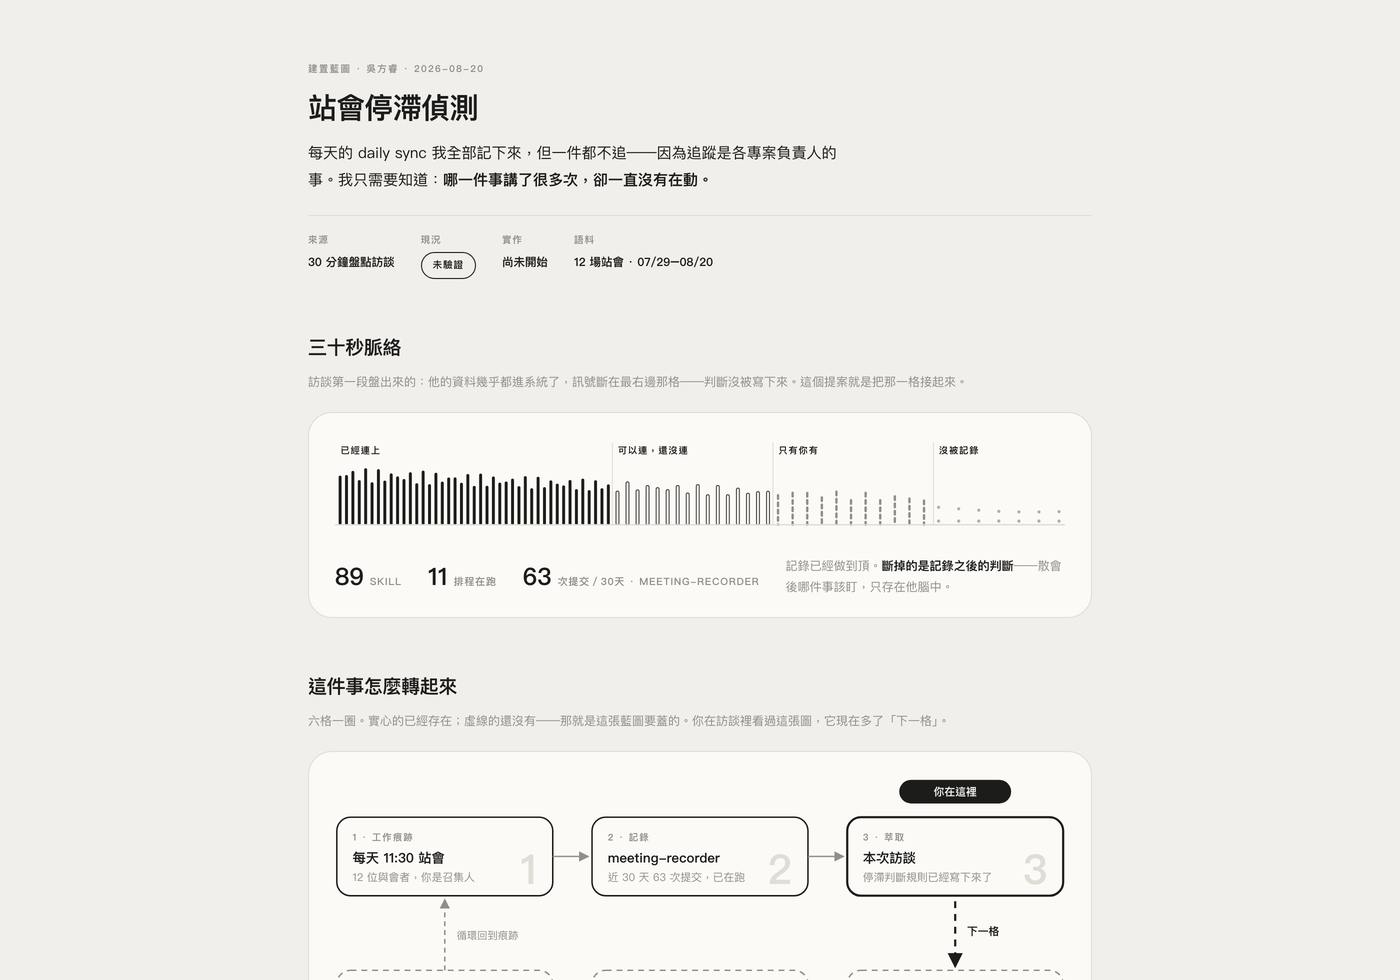
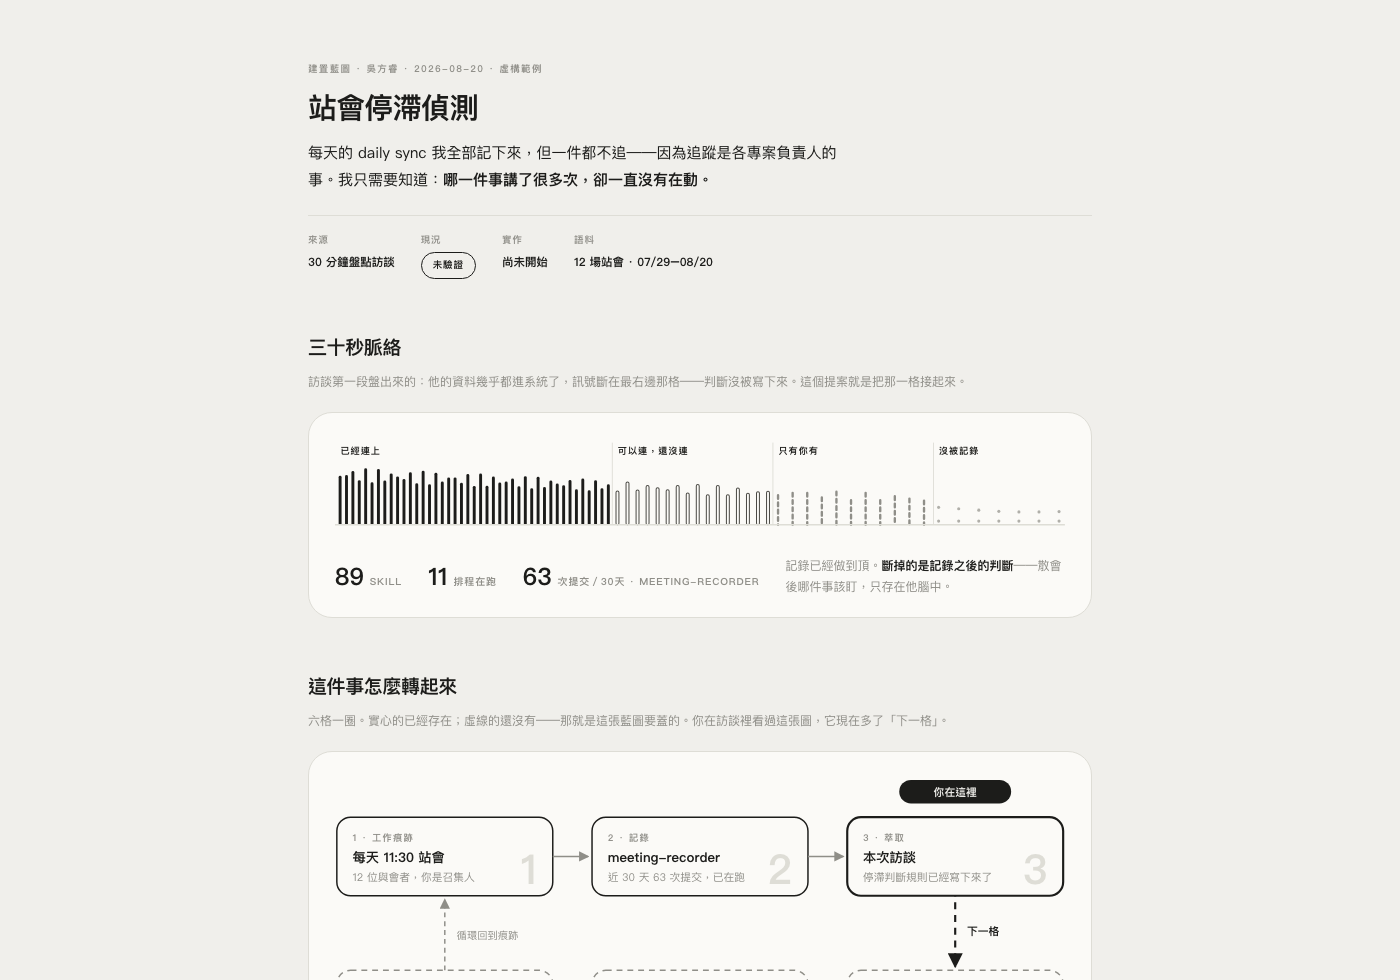
依法律意見調整授權、風險告知與品牌標示
- NOTICE.md 改為「CC BY-NC 4.0 + 方睿額外授權」雙軌：企業內部導入與
  免費公開分享明列為免費，不再依賴 NC 條款的解釋空間
- 商業利用改為「應事前簽署書面商業授權契約」
- 新增品牌與改作版本規則：著作權授權不含商標授權，實質修改後對外
  發布者須移除官方頁尾並改用指定標示
- 免責改為「不設方睿資料接收或儲存機制」的精確敘述，並補上使用前的
  權限與資安確認事項
- 兩個 skill 開場加入資料使用風險告知（interview-me 每場、daily-brief
  僅第一次設定）
- 出處標註改為「概念受啟發、文字與架構均另行撰寫」
- 範例頁補「虛構範例」標記，移除誤植的「實跑紀錄、未經去識別化」字樣

diff --git a/interview-me/examples/blueprint.html b/interview-me/examples/blueprint.html
@@ -163,7 +163,7 @@
 <div class="wrap">
 
   <header>
-    <span class="eyebrow">建置藍圖 · 吳方睿 · 2026-08-20</span>
+    <span class="eyebrow">建置藍圖 · 吳方睿 · 2026-08-20 · 虛構範例</span>
     <h1>站會停滯偵測</h1>
     <p class="lede">每天的 daily sync 我全部記下來，但一件都不追——因為追蹤是各專案負責人的事。我只需要知道：<strong>哪一件事講了很多次，卻一直沒有在動。</strong></p>
     <div class="meta">
@@ -507,9 +507,9 @@
   </section>
 
   <footer>
-    這份藍圖是 <strong>interview-me skill 收尾成品的範例</strong>，內容來自 2026-08-20 吳方睿 的盤點訪談實跑紀錄，未經去識別化，內部使用。<br>
+    這份藍圖是 <strong>interview-me skill 收尾成品的範例</strong>，人物「吳方睿」、公司、專案與所有數字都是<strong>杜撰的</strong>，用來示範這份成品長什麼樣。<br>
     規則的每一條都由受訪者本人選定或修正；訪談者只做了資料比對與整理。
-    <div class="src">來源 · 12 場生態系事業群 daily sync（07/29–08/20）· 訪談問答 11 輪 · 受訪者當場修正 4 次</div>
+    <div class="src">虛構範例 · 由 interview-me skill 產出 · 方睿科技 FUNRAISE · CC BY-NC 4.0</div>
   </footer>
 
 </div>

diff --git a/NOTICE.md b/NOTICE.md
@@ -1,10 +1,11 @@
 # 授權說明與商業使用
 
-本專案採 **CC BY-NC 4.0**（姓名標示 — 非商業性 4.0 國際）。
+本專案採 **CC BY-NC 4.0**（姓名標示 — 非商業性 4.0 國際），**並由方睿科技另外給予一層額外授權**（見下方第五節），把「企業內部導入」與「免費公開分享」明確劃進免費範圍。
+
 著作權人：**方睿科技股份有限公司（FUNRAISE Inc.）**
 完整條文見 [`LICENSE`](LICENSE)。
 
-這一頁是白話版，方便你判斷自己屬於哪一種。**條文與本頁牴觸時，以 `LICENSE` 為準。**
+這一頁前四節是白話版，方便你判斷自己屬於哪一種；第五節是正式條款。**白話與條款牴觸時，以第五節與 `LICENSE` 為準。**
 
 ---
 
@@ -12,10 +13,10 @@
 
 - 你自己用、給你同事用
 - 改成你們團隊或公司的版本（尤其是 `organization-context.md`，本來就是給你改的）
-- 內部訓練、內部導入、內部分享
+- 內部訓練、內部導入、內部分享、拿它改善你們自己的工作流程
 - 讀它、學它的做法、把方法用在你自己的東西上
 
-**「非商業」指的是使用行為本身不以營利為主要目的，不是指「你的公司有沒有在賺錢」。** 一般企業拿去改善自己的內部工作流程，屬於這一類。
+**你們公司是營利企業也一樣。** 只要不是拿它去對外收費，內部怎麼用都免費——這一點寫在第五節的額外授權條款裡，不是我們口頭承諾。
 
 ---
 
@@ -27,13 +28,13 @@
 > https://github.com/Nelsen-funraise/context-interview
 > 授權：CC BY-NC 4.0
 
-改過的版本請說明你改了什麼，不要讓人誤以為那是原版。
+**改過的版本要說明你改了什麼**，不要讓人誤以為那是原版。如果你做了實質修改又對外發布，請看第四節的品牌規則。
 
 ---
 
 ## 三、要先談：商業使用
 
-以下情況超出 CC BY-NC 的範圍，需要另外取得授權：
+以下情況超出免費授權的範圍，需要另外取得授權：
 
 - **收費課程或工作坊**把它當教材或學員交付物
 - **顧問服務**把它當交付物的一部分向客戶收費
@@ -55,11 +56,63 @@
 
 ---
 
-## 四、免責
+## 四、品牌與改作版本
+
+「方睿科技」「FUNRAISE」是方睿科技的品牌，**著作權授權不包含商標授權**——拿到這份資源的使用權，不等於可以把 FUNRAISE 當成自己產品或服務的品牌使用。
+
+- **原版**：保留頁尾的方睿科技 FUNRAISE 標示。
+- **你改過、而且要對外發布的版本**：請把方睿的 logo 與具有官方版本外觀的頁尾移除，改成下面這一行——
+
+  > Based on context-interview by 方睿科技 FUNRAISE；本版本已經修改，非方睿科技官方版本，亦未經方睿科技審查或背書。
+
+這樣既符合姓名標示的要求，也不會讓讀到的人誤以為你改過的內容經過我們審查或背書。
+
+---
+
+## 五、授權條款（正式版）
+
+### 5.1 基礎授權
+
+本專案依 **Creative Commons 姓名標示—非商業性 4.0 國際（CC BY-NC 4.0）** 授權，完整條文見 [`LICENSE`](LICENSE)。
+
+### 5.2 方睿科技額外授權
+
+除前述 CC BY-NC 4.0 授權外，方睿科技股份有限公司另行授權任何個人、公司或其他組織：
+
+1. 得免費將本專案用於其自身或組織內部之教育、訓練、工作流程改善及內部導入，**即使該組織本身具有營利性亦同**；
+2. 得免費公開分享、轉貼、引用或介紹本專案，並得於免費之分享場合、文章、社群貼文或簡報中使用，惟應依第二節之方式標示出處。
+
+前二項授權，均**不得**將本專案或其實質內容作為收費課程、顧問交付物、付費商品、付費服務或其他對外收費內容之一部。
+
+### 5.3 商業利用
+
+前述商業利用不在本專案之免費授權範圍內，**應事前另與方睿科技簽署書面商業授權契約**。聯繫窗口見第三節。
+
+### 5.4 商標
+
+本授權不包含方睿科技之商標、標章或品牌名稱之授權。經實質修改後對外發布之版本，應依第四節移除官方版本外觀並改用指定之標示文字。
+
+---
+
+## 六、免責與風險告知
 
 本專案按「現狀」提供，不附任何明示或默示的擔保。
 
-這兩個 skill 會讀取你授權給 AI 的資料來源。**你自己要確認**：你有權讓 AI 讀那些資料、你們公司的資安與個資規範允許這件事。方睿科技不對你如何使用它、以及使用後的結果負責。
+### 6.1 資料流向
+
+**本專案本身不設置方睿科技之資料接收或儲存機制，亦不會將使用者資料傳送至方睿科技伺服器。** 惟實際資料如何由 AI 服務商蒐集、處理、儲存或傳輸，仍取決於使用者所選擇之 AI 服務、帳戶方案及其相關設定與服務條款。
+
+換句話說：資料不會來我們這裡，但它會進到**你自己選的那個 AI**。那一段由你和你的 AI 服務商之間的條款決定，我們沒有辦法、也沒有立場替你保證。
+
+### 6.2 使用前請先確認
+
+如將使用公司內部資料、員工或客戶個資、未公開財務資料、營業秘密或其他機密資訊：
+
+- 請先確認**您具有合法使用權限**；
+- 請先確認**所使用之 AI 服務符合貴公司個資、資訊安全及機密資訊政策**；
+- 必要時應**先進行去識別化或移除敏感內容**。
+
+這兩個 skill 會讀取你授權給 AI 的資料來源，讀得到什麼完全取決於你給了什麼權限。方睿科技不對你如何使用它、以及使用後的結果負責。
 
 `interview-me` 刻意不記錄薪資、考核與對特定同事的評價（規則寫在 `SKILL.md`），但那是流程上的約束，不是技術上的保證。
 

diff --git a/interview-me/SKILL.md b/interview-me/SKILL.md
@@ -15,7 +15,15 @@ description: 盤點「我的脈絡」的訪談——由 AI 主持、分兩段：
 4. **岔題停車場。** 他岔題→一句話回應＋記進停車場＋下一句就回到當站的題目。停車場在第 5 站清空，每條走三選一：**答得了的當場一句話回答**、該技能化的進工作清單、其餘進「其他回饋」交給計畫負責人——一條都不丟，也不假裝每條都是待辦。
 5. **語言鎖定：繁體中文（台灣用語）。** 問題、選項、圖、藍圖、簡報，全部。每次產出前自掃一遍有沒有簡體字或整段英文——實測兩場都出現過語言漂移，受訪者的個人設定擋不住，這條要由你守。**引用受訪者或客戶的簡體原文時，轉成繁體引用並標「（原文簡體）」**——轉字不改詞，語意不失真；訊息本文與成品裡不出現簡體字，無例外。
 6. **資料紀律。** (a) 連結只用工具回傳的原樣 URL 且要**直達那一筆**（頁面連結，不是整個資料庫檢視）；只有資料庫連結就註明「開啟後找『XX』」——實測受訪者為了在資料庫裡找一筆任務花了四分鐘。(b) 查詢待辦或逾期任務，**條件必須含「負責人＝他」**——實測只用狀態＋日期過濾，把同事負責的任務放進了受訪者的簡報，受訪者第一反應是「這不是我的」。(c) 行事曆讀不到就說讀不到，不要推論「你今天沒事」。(d) 把某句回饋或評價掛到具體人名之前，先確認來源（「我記到的是 A 說的——對嗎？」）——實測把 B 的回饋掛成了 A、受訪者當場糾正。
-7. **先開口，再跑工具。** 任何超過 30 秒的掃描或生成，前面必須先有一句話：在做什麼、約多久、這段時間他可以先想什麼。**開場尤其如此**——第一句話要在自查之前就送出（打招呼＋「我先花約三分鐘查你的資料，查得到的就不會問你」＋「過程可能跳出幾次授權框，按允許就好」），實測兩場開場都讓受訪者對著轉圈的工具清單乾等了四分鐘。收尾生成兩個成品前也一樣先說「大約要兩三分鐘」。
+7. **先開口，再跑工具。** 任何超過 30 秒的掃描或生成，前面必須先有一句話：在做什麼、約多久、這段時間他可以先想什麼。**開場尤其如此**——第一句話要在自查之前就送出（打招呼＋「我先花約三分鐘查你的資料，查得到的就不會問你」＋「過程可能跳出幾次授權框，按允許就好」＋**下面這句資料提醒**），實測兩場開場都讓受訪者對著轉圈的工具清單乾等了四分鐘。
+
+    **開場那則訊息必須帶這一句、不可省略、不要壓縮成更輕描淡寫的版本**（法律意見要求的風險告知，位置就在自查宣告之後、第一題之前）：
+
+    > 開始之前提醒一下：如果等下會用到公司內部資料、同事或客戶的個資、還沒公開的財務數字或營業秘密，請先確認你有權限使用、而且你在用的這個 AI 服務符合你們公司的個資與資安規定；不確定的部分先拿掉或去識別化再給我。
+
+    說完就接著跑自查，不要停下來等他回覆這一句——它是告知，不是問題。**續談模式（第二次以後）不用重講。**
+
+    收尾生成兩個成品前也一樣先說「大約要兩三分鐘」。
 8. **說人話。** 對受訪者說的每一句、圖上每一行字，出口前過三個測試：茶水間測試（這句你會對同事口頭說嗎）、新人測試（昨天報到的人聽得懂嗎）、第一句測試（只聽第一句也不會誤解）。「萃取」「閉環」「驗收」「歸檔」這些詞不准對他說出口——換詞表與寫法規則見 `references/plain-talk.md`。實測兩場被當場嫌「太文言文」「這個問題太難了」；規格用語留給規格，開口要像茶水間。**數字、來源、人名除外——白話是換說法，不是變模糊。**
 9. **守住你承諾的時間。** 他選了壓縮版，那就是合約：進度條帶剩餘分鐘，超時就明說「超時了，我用最短路徑收尾」——砍題數、不砍成品。**你在對話裡沒有錶，用回合數當尺**：30 分版每站最多 5 個受訪者回合、10 分版最多 2 個，到頂即視同超時、觸發最短路徑。實測一場選了 15 分鐘壓縮版，實際又跑了二十多分鐘，沒有任何超時宣告。
 10. **不落地，不停手。** (a) **交付段一氣呵成**：進第④站先說「接下來我會連續交出藍圖和簡報定稿（10 分版約一分半、30 分版約四分鐘），中間不會問你問題；**萬一我中途停住，回我任何一個字（打『繼續』就行），我會直接接著做完、不會重問**」——這句宣告和兩個成品**必須在同一則訊息裡**：宣告完不結束回合、直接開始產，成品與成品之間禁止提問、禁止等確認。實測三場全倒在這裡：藍圖交完用一句確認題收尾（完全合規），回合斷掉，簡報就永遠等不到下一棒。(b) **恢復規則**：只要照五站表**已到交付時機而尚未交付**的成品存在（骨架版在第①站、藍圖與定稿在④⑤），收到受訪者的**任何**訊息（「好」「繼續」「這是什麼」都算），第一動作是把它做完——訊息內容一句話回應或收進停車場，交完之前不進入自由問答。只有他明確喊停（「先到這」「不用了」）才停，停也要把已完成的交付＋缺項清單留給他。

diff --git a/README.md b/README.md
@@ -229,15 +229,19 @@ daily-brief/
 
 ## 授權
 
-**CC BY-NC 4.0**（姓名標示 — 非商業性）。白話講：
+**CC BY-NC 4.0**（姓名標示 — 非商業性）＋**方睿額外授權**。白話講：
 
 | | |
 |---|---|
 | ✅ **自己用、給同事用、改成你們團隊的版本** | 免費，不用問我們 |
+| ✅ **公司內部導入、內部訓練、改善你們自己的工作流程** | 免費——你們公司是營利企業也一樣 |
 | ✅ **分享、轉貼、寫成文章** | 請註明出處：方睿科技 FUNRAISE，並附上這個 repo 的連結 |
-| ⚠ **商業使用**（收費課程、顧問交付物、包進你的產品、對外販售） | 需要另外談授權或分潤 |
+| ⚠ **改過之後又對外發布** | 移除方睿的官方頁尾，改標「Based on context-interview by 方睿科技 FUNRAISE；本版本已經修改」 |
+| ⚠ **商業使用**（收費課程、顧問交付物、包進你的產品、對外販售） | 需事前簽署書面商業授權契約 |
 
-商業授權怎麼申請，見 [`NOTICE.md`](NOTICE.md)。完整條文見 [`LICENSE`](LICENSE)。
+「公司內部導入免費」不是靠 NC 條款的解釋撐著，是方睿**另外給的一層授權**，條款寫在 [`NOTICE.md`](NOTICE.md) 第五節。完整條文見 [`LICENSE`](LICENSE)。
+
+**開始之前請先確認一件事**：要餵給 AI 的如果是公司內部資料、員工或客戶個資、未公開財務資料或營業秘密，先確認你有權使用、而且你選的那個 AI 服務符合貴公司的個資與資安政策；必要時先去識別化。這個專案不設方睿的資料接收或儲存機制、不會把任何資料送到方睿的伺服器——但資料會進到**你自己選的那個 AI**，那一段取決於你和它之間的服務條款。詳見 [`NOTICE.md`](NOTICE.md) 第六節。
 
 ---
 
@@ -245,7 +249,7 @@ daily-brief/
 
 出自方睿科技「AI Raiser 先鋒計畫」，2026 台灣行銷年會《AI 時代的減法工作流》現場釋出。
 
-「每答一題就存檔」的做法，參考自 Nate Herk 的 grill-me（原始版本為 Matt Pocock 所作）。
+「每答一題即記錄／存檔」的流程概念，曾受 Nate Herk 所分享之 grill-me（其原始版本為 Matt Pocock 所作）啟發；本專案之文字、架構、問題設計及具體內容均另行設計與撰寫。
 
 ---
 

diff --git a/interview-me/references/visual-language.md b/interview-me/references/visual-language.md
@@ -145,3 +145,22 @@ MUTED #8F8E88    FAINT #C6C5BF    GRID  #DEDDD6
 
 - `examples/context-map.html` — 脈絡訊號圖（訊號衰減圖＋stat 排＋投入熱點＋週間節奏＋天花板宣言）
 - `examples/blueprint.html` — 建置藍圖（閉環圖含動效與底紋編號、規則卡、案例時間軸、一個第一步、討論題、前瞻驗收）
+
+
+## 頁尾出處（授權要求，不是裝飾）
+
+每一份渲染出來的成品，頁尾放一行小字：
+
+```
+由 {skill 名稱} skill 產出 · 方睿科技 FUNRAISE · CC BY-NC 4.0
+```
+
+使用者自己跑出來的成品照這樣標就好——那是出處，不是宣傳。
+
+**但如果有人實質修改了這個 skill、又把改過的版本對外發布**，頁尾要改成：
+
+```
+Based on context-interview by 方睿科技 FUNRAISE；本版本已經修改，非方睿科技官方版本，亦未經方睿科技審查或背書。
+```
+
+理由與完整規則見 repo 根目錄 `NOTICE.md` 第四節：著作權授權不包含商標授權，改過的版本掛著原本的官方頁尾會讓人誤以為經過方睿審查。

diff --git a/daily-brief/references/visual-spec.md b/daily-brief/references/visual-spec.md
@@ -43,3 +43,22 @@ GRID   #DEDDD6   分隔線
 **分隔線只用 1px 實線。** 不要虛線、不要陰影分隔。段落之間靠留白，不靠框線。
 
 **留白比塞滿重要。** 這份東西的競爭對手是使用者的收件匣，不是儀表板。看起來很滿就會被延後閱讀。
+
+
+## 頁尾出處（授權要求，不是裝飾）
+
+每一份渲染出來的成品，頁尾放一行小字：
+
+```
+由 {skill 名稱} skill 產出 · 方睿科技 FUNRAISE · CC BY-NC 4.0
+```
+
+使用者自己跑出來的成品照這樣標就好——那是出處，不是宣傳。
+
+**但如果有人實質修改了這個 skill、又把改過的版本對外發布**，頁尾要改成：
+
+```
+Based on context-interview by 方睿科技 FUNRAISE；本版本已經修改，非方睿科技官方版本，亦未經方睿科技審查或背書。
+```
+
+理由與完整規則見 repo 根目錄 `NOTICE.md` 第四節：著作權授權不包含商標授權，改過的版本掛著原本的官方頁尾會讓人誤以為經過方睿審查。

diff --git a/interview-me/README.md b/interview-me/README.md
@@ -57,4 +57,4 @@ cp -r interview-me ~/.claude/skills/        # 個人層
 方睿科技（FUNRAISE）出品，出自「AI Raiser 先鋒計畫」第一堂課。
 **CC BY-NC 4.0** —— 自用免費、分享請註明出處、商業使用另需授權（見 repo 根目錄的 `NOTICE.md`）。
 原版與更新：https://github.com/Nelsen-funraise/context-interview
-每答一題就存檔的做法，參考自 Nate Herk 的 grill-me（原始版本為 Matt Pocock 所作）。
+「每答一題即記錄／存檔」的流程概念，曾受 Nate Herk 所分享之 grill-me（其原始版本為 Matt Pocock 所作）啟發；本專案之文字、架構及具體內容均另行設計與撰寫。
